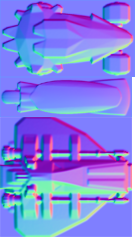
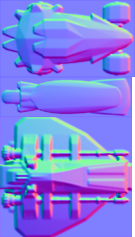
add build option to disable neon rendering

diff --git a/space_racers/src/RaceState.cpp b/space_racers/src/RaceState.cpp
@@ -196,6 +196,7 @@ void RaceState::draw()
     m_backgroundBuffer.draw(m_backgroundScene);
     m_backgroundBuffer.display();
 
+#ifndef LO_SPEC
     //normal map for distortion of background
     m_normalBuffer.clear({ 127,127,255 });
     m_normalBuffer.draw(m_normalSprite);
@@ -241,6 +242,15 @@ void RaceState::draw()
     auto& rw = getContext().renderWindow;
     rw.setView(getContext().defaultView);
     rw.draw(m_gameSceneSprite, &blendShader);
+#else
+    m_gameSceneBuffer.clear();
+    m_gameSceneBuffer.draw(m_gameScene);
+    m_gameSceneBuffer.display();
+
+    auto& rw = getContext().renderWindow;
+    rw.setView(getContext().defaultView);
+    rw.draw(m_gameSceneSprite);
+#endif //LO_SPEC
     rw.draw(m_uiScene);
 }
 
@@ -441,9 +451,11 @@ void RaceState::buildWorld()
     backgroundEnt.addComponent<xy::Transform>().setOrigin(sf::Vector2f(GameConst::LargeBufferSize) / 2.f);
     backgroundEnt.addComponent<xy::Drawable>().setDepth(GameConst::BackgroundRenderDepth);
     backgroundEnt.getComponent<xy::Drawable>().setFilterFlags(GameConst::Normal);
+#ifndef LO_SPEC
     backgroundEnt.getComponent<xy::Drawable>().setShader(&m_shaders.get(ShaderID::TrackDistortion));
     backgroundEnt.getComponent<xy::Drawable>().bindUniform("u_normalMap", m_normalBuffer.getTexture());
     backgroundEnt.getComponent<xy::Drawable>().bindUniformToCurrentTexture("u_texture");
+#endif
     backgroundEnt.addComponent<xy::Sprite>(m_backgroundBuffer.getTexture());
     camEnt.getComponent<xy::Transform>().addChild(backgroundEnt.getComponent<xy::Transform>());
 
@@ -674,7 +686,7 @@ void RaceState::spawnVehicle(const VehicleData& data)
     entity.getComponent<xy::Drawable>().setFilterFlags(GameConst::Normal);
     entity.getComponent<xy::Drawable>().setShader(&m_shaders.get(ShaderID::Vehicle));
     entity.getComponent<xy::Drawable>().bindUniformToCurrentTexture("u_diffuseMap");
-    //entity.getComponent<xy::Drawable>().bindUniform("u_modelMatrix", entity.getComponent<xy::Transform>().getTransform().getMatrix());
+    entity.getComponent<xy::Drawable>().bindUniform("u_modelMatrix", entity.getComponent<xy::Transform>().getInverseTransform().getMatrix());
     entity.addComponent<xy::Sprite>() = m_sprites[SpriteID::Game::Car + data.vehicleType];
     entity.addComponent<Vehicle>().type = static_cast<Vehicle::Type>(data.vehicleType);
     //TODO we should probably get this from the server, but it might not matter
